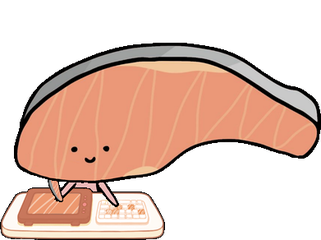
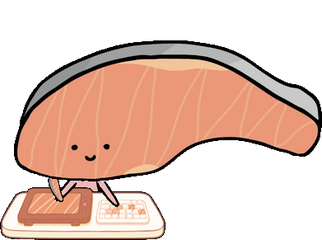
update v1786964802

diff --git a/mascot.py b/mascot.py
@@ -4253,6 +4253,7 @@ class Mascot:
         self._self_cup_at = 0.0      # 본인 컵케이크를 먹은 시각 (10분에 1번)
         self._soft_cache = {}        # 매끈한 원·그림자 그림 (상한 있음)
         self._room_dxc = {}          # 방 그림의 책상 중심 치우침 (slot,tag)→px
+        self._room_meta_h = {}       # 방 그림의 머리선 캐시 (slot → 0~1)
         self._mq_img = None          # 지금 프레임의 마퀴 그림
         self._room_song_slots = set()  # 노래가 걸린 카드 (음표 연출용)
         self._bubble_born = 0.0      # 지금 말풍선이 뜬 시각 (톡 등장용)
@@ -14537,6 +14538,21 @@ class Mascot:
         self._room_meta[slot] = v
         return v
 
+    def _room_headline(self, slot):
+        """그림에서 머리가 끝나는 높이 (0~1). 모르면 None (옛 배포본)."""
+        if slot in self._room_meta_h:
+            return self._room_meta_h[slot]
+        v = None
+        p = self._room_art_file(slot, "seat_meta.json")
+        if p:
+            try:
+                with open(p, encoding="utf-8") as fp:
+                    v = float(json.load(fp).get("head"))
+            except Exception:
+                v = None
+        self._room_meta_h[slot] = v
+        return v
+
     def _room_img(self, slot, tag):
         """방에 그릴 그림 — (몸, 책상) 두 조각. 아직 없으면 None.
 
@@ -14584,21 +14600,26 @@ class Mascot:
                     round(im.width / 2 - (bb2[0] + bb2[2]) / 2) if bb2 else 0)
             except Exception:
                 self._room_dxc[(slot, tag)] = 0
-            if line and 0.2 < line < 0.95:
-                # 몸은 통짜로 두고, 책상 조각을 그 위에 고정으로 덮는다.
-                # 몸을 잘라 올리면 잘린 자리가 그대로 드러난다 (실제로 겪음).
+            hline = self._room_headline(slot)
+            if hline and 0.05 < hline < 0.9:
+                # 머리/몸 분리 — 전신은 고정하고 머리 조각만 숨쉬게 한다.
+                # 머리 조각은 목 아래로 살짝 겹쳐 잘라, 위로 떠도 틈이 없다.
+                lap = int(4 * self._room_k())
+                hcut = min(h, int(h * hline) + lap)
+                pair = (ImageTk.PhotoImage(im.crop((0, 0, im.width, hcut))),
+                        ImageTk.PhotoImage(im), h, "head")
+            elif line and 0.2 < line < 0.95:
+                # 옛 배포본(머리선 없음) — 몸이 숨쉬고 책상 조각이 위에 덮는다.
                 cut = int(h * line)
-                # 몸이 숨쉬며 오르내릴 때(±1.6k) 흰 테두리가 이음새로
-                # 드러나지 않게 책상 조각을 살짝만 위로 겹친다. 크게 겹치면
-                # 그 띠 안의 몸 그림이 붙박이가 돼 '잘린 선'으로 보인다
-                # (연어 제보 — 8k였을 때).
+                # 겹침은 숨쉬기 진폭만 가릴 만큼만 (크면 잘린 선으로 보인다 —
+                # 연어 제보, 8k였을 때)
                 lap = int(3 * self._room_k())
                 cut2 = max(0, cut - lap)
                 pair = (ImageTk.PhotoImage(im),
                         ImageTk.PhotoImage(im.crop((0, cut2, im.width, h))),
-                        h - cut2)
+                        h - cut2, "desk")
             else:
-                pair = (ImageTk.PhotoImage(im), None, 0)
+                pair = (ImageTk.PhotoImage(im), None, 0, "desk")
         except Exception:
             self._room_art_bad.add(slot)
             return None
@@ -15963,8 +15984,8 @@ class Mascot:
                  width=3 if picked else 2)
         got = self._room_img(slot, self._room_pose(p))
         if got is not None:
-            body, desk, cut = got
-            # 숨쉬듯 아주 살짝. 움직이는 것은 몸뿐이고 책상은 고정이다.
+            body, over, cut, mode = got
+            # 숨쉬듯 아주 살짝 — 머리 조각(있으면)만 들썩이고 몸·책상은 고정
             bob = math.sin(time.time() * 1.7 + hash(slot) % 7) * (1.6 * k)
             if sleeping:
                 bob *= 0.6
@@ -15972,21 +15993,30 @@ class Mascot:
             pose = self._room_pose(p)
             cx = (kx0 + kx1) / 2 + self._room_dxc.get(
                 (slot, pose), self._room_dxc.get((slot, "seat"), 0))
-            item = cv.create_image(cx, base + bob, image=body, anchor="s",
-                                   tags="dyn")
-            ditem = None
-            if desk is not None:
-                # 책상을 나중에 그려 위에 덮는다 — 뒤에서 몸이 움직여도
-                # 책상은 붙박이고 이음매도 안 보인다.
-                ditem = cv.create_image(cx, base, image=desk, anchor="s",
+            if mode == "head" and over is not None:
+                # body = 머리 조각(움직임), over = 전신(고정)
+                ditem = cv.create_image(cx, base, image=over, anchor="s",
                                         tags="dyn")
+                reg = base - over.height() + body.height()
+                item = cv.create_image(cx, reg + bob, image=body, anchor="s",
+                                       tags="dyn")
+            else:
+                reg = base
+                item = cv.create_image(cx, base + bob, image=body, anchor="s",
+                                       tags="dyn")
+                ditem = None
+                if over is not None:
+                    # 책상을 나중에 그려 위에 덮는다 — 뒤에서 몸이 움직여도
+                    # 책상은 붙박이고 이음매도 안 보인다.
+                    ditem = cv.create_image(cx, base, image=over, anchor="s",
+                                            tags="dyn")
             if float(p.get("p") or 0) >= 1.0:
                 # 목표를 다 채운 사람 — 남들 화면에서도 축하 모습으로
                 self._safe("room_party", self._room_party_draw,
                            cv, slot, pose, cx, base + bob, k, col)
             if not off:
                 # 안 켠 사람은 숨쉬지 않는다 — 켜 있는 사람과 구분이 된다
-                self._room_body.append((item, ditem, slot, base, sleeping,
+                self._room_body.append((item, ditem, slot, reg, sleeping,
                                         pose))
         else:
             cv.create_oval((kx0 + kx1) / 2 - 26 * k, floor - 56 * k,
